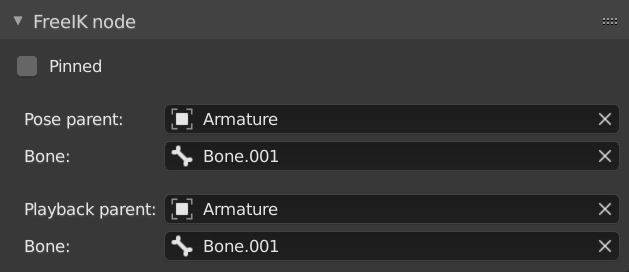
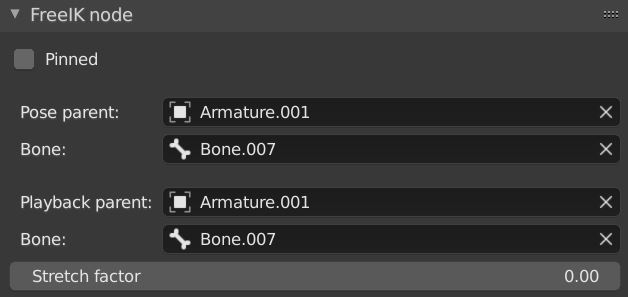
v 1.1

diff --git a/index.html b/index.html
@@ -167,19 +167,21 @@
 </div>
 <div class="section" id="install">
 <h1>Install<a class="headerlink" href="#install" title="Permalink to this headline">¶</a></h1>
-<p>Install like any other Blender addon.
-After installing you can set a shortcut for the FREEIK pie menu in the addon preferences.</p>
+<p>Install FREEIK like any other Blender addon.</p>
+<p>After installing you can set a shortcuts from the addon preferences.</p>
 <p><img alt="preferences" src="_images/preferences.jpg" /></p>
-<p>Here is the pie menu itself.</p>
-<p><img alt="pie_menu" src="_images/pie_menu.jpg" /></p>
-<p>It contains most functions of this addon.</p>
+<p>Then install this <a class="reference external" href="https://github.com/xbodya13/compact_keyframe_insert_menu">addon</a></p>
+<p>It provides a special keying set ,called <strong>Transform</strong> that is needed to animate with FREEIK</p>
 </div>
 <div class="section" id="rig-a-model">
 <h1>Rig a model<a class="headerlink" href="#rig-a-model" title="Permalink to this headline">¶</a></h1>
-<p>To rig a model select its armature, start the pie menu and hit <strong>Make links</strong> button.</p>
+<p>Here is the pie menu.</p>
+<p><img alt="pie_menu" src="_images/pie_menu.jpg" /></p>
+<p>It contains most functions of this addon.</p>
+<p>To rig a model select its armature and hit <strong>Make links</strong> button.</p>
 <p>This operator connects all bones with ball-socket constraints, basing on their hierarchy.</p>
 <p><img alt="make_links" src="_images/make_links.jpg" /></p>
-<p>If your armature has animation, check <strong>Adapt animation</strong> in its settings.
+<p>If your armature already has animation, check <strong>Adapt animation</strong> in its settings.
 This checkbox creates a new action and bakes original animation into it</p>
 <div class="admonition warning">
 <p class="first admonition-title">Warning</p>
@@ -203,6 +205,24 @@ Also, you can pin and unpin any bone using corresponding buttons from the pie me
 <p class="first admonition-title">Warning</p>
 <p class="last">Not uniform scale of armature object may lead to strange behavior</p>
 </div>
+<p>There are three posing modes:</p>
+<ul>
+<li><p class="first">Smooth</p>
+<p><a class="reference internal" href="_images/smooth.gif"><img alt="smooth" src="_images/smooth.gif" style="width: 60%;" /></a></p>
+</li>
+<li><p class="first">Rope</p>
+<p><a class="reference internal" href="_images/rope.gif"><img alt="rope" src="_images/rope.gif" style="width: 60%;" /></a></p>
+</li>
+<li><p class="first">Stretch</p>
+<p><a class="reference internal" href="_images/stretch.gif"><img alt="stretch" src="_images/stretch.gif" style="width: 60%;" /></a></p>
+<p>This mode can be used to achieve stretch and squash effect by adjusting the <strong>Stretch factor</strong> property that can be found in bone settings</p>
+<p><a class="reference internal" href="_images/stretch_highlight.jpg"><img alt="stretch_highlight" src="_images/stretch_highlight.jpg" style="width: 80%;" /></a></p>
+<p>See how stretch factor affects bone behavior</p>
+<p><a class="reference internal" href="_images/stretch_factor.gif"><img alt="stretch_factor" src="_images/stretch_factor.gif" style="width: 80%;" /></a></p>
+</li>
+</ul>
+<p>You can switch between posing modes using pie menu
+<img alt="change_mode" src="_images/change_mode.jpg" /></p>
 </div>
 <div class="section" id="parenting">
 <h1>Parenting<a class="headerlink" href="#parenting" title="Permalink to this headline">¶</a></h1>
@@ -221,16 +241,23 @@ Pose parent is used only when posing and doesn’t affect the animation.</p>
 </div>
 <div class="section" id="animation">
 <h1>Animation<a class="headerlink" href="#animation" title="Permalink to this headline">¶</a></h1>
-<p>Unlike generic bones, bones rigged with FREEIK may have an extra rotation channel that should be keyed.</p>
+<p>The animation workflow is pretty similar to usual armatures:</p>
+<p>Pose model-&gt; Key transformation of the bones-&gt;Go to another frame-&gt;Repeat</p>
+<div class="admonition tip">
+<p class="first admonition-title">Tip</p>
+<p class="last">For nice interpolation it is better to key transformation on all bones of the character</p>
+</div>
+<p>But unlike the generic bones, bones rigged with FREEIK may have an extra rotation channel that should be keyed.</p>
 <p><img alt="transform" src="_images/transform.jpg" /></p>
-<p>To do this, i recommend to install this <a class="reference external" href="https://github.com/xbodya13/compact_keyframe_insert_menu">addon</a></p>
-<p>When you install it,you’ll find out two extra properties in <strong>Transform</strong> keying set settings.</p>
+<p>That’s why you need a special keying set called <strong>Transform</strong>,which is provided with this <a class="reference external" href="https://github.com/xbodya13/compact_keyframe_insert_menu">addon</a></p>
+<p>Here are its settings</p>
 <p><img alt="keyset" src="_images/keyset.jpg" /></p>
 <p><strong>Local</strong> - insert keyframes on local rotation of selected bones</p>
 <p><strong>Linked</strong> - insert keyframes on all bones which are connected to selected ones</p>
 <p>Also, every bone has <strong>Pinned</strong> property. It can be found in bone settings.</p>
 <p><img alt="node_panel" src="_images/node_panel.jpg" /></p>
 <p>Pinned bones work similarly to IK targets in normal rigs.</p>
+<p><a class="reference internal" href="_images/pinning.gif"><img alt="pinning" src="_images/pinning.gif" style="width: 80%;" /></a></p>
 <p>To animate this property you can use these buttons from the pie menu</p>
 <p><img alt="pin" src="_images/pin.jpg" /></p>
 <p><strong>+</strong>- insert keyframe on <strong>Pinned</strong> property of selected bones</p>
@@ -239,10 +266,6 @@ Pose parent is used only when posing and doesn’t affect the animation.</p>
 <div class="admonition important">
 <p class="first admonition-title">Important</p>
 <p class="last">Always key transformation on all bones of the rig on frames where <strong>Pinned</strong> property changing</p>
-</div>
-<div class="admonition warning">
-<p class="first admonition-title">Warning</p>
-<p class="last">Automatic keyframe insertion doesn’t work properly yet (will be fixed in next releases)</p>
 </div>
 <p>See how all this works in this video:</p>
 <iframe width="560" height="315" src="https://www.youtube.com/embed/rY2MrpxW7WU" frameborder="0" allow="accelerometer; autoplay; encrypted-media; gyroscope; picture-in-picture" allowfullscreen></iframe></div>
@@ -273,7 +296,7 @@ To disable rig press red lamp from the same menu.</p>
 <div class="section" id="clear-rig">
 <h1>Clear rig<a class="headerlink" href="#clear-rig" title="Permalink to this headline">¶</a></h1>
 <p>To clear rig use <strong>Clear links</strong> button.
-This operator turns back FREEIK rig to the basic armature.</p>
+This operator turns FREEIK rig back to the basic armature.</p>
 <p>Here are its settings</p>
 <p><img alt="clear_links" src="_images/clear_links.jpg" /></p>
 <p><strong>Make hierarchy</strong> - if checked, bones will have parents

diff --git a/searchindex.js b/searchindex.js
@@ -1,1 +1,1 @@
-Search.setIndex({docnames:["index"],envversion:53,filenames:["index.rst"],objects:{},objnames:{},objtypes:{},terms:{"function":0,"new":0,"switch":0,For:0,Not:0,Then:0,Using:0,about:0,action:0,activ:0,adapt:0,addon:0,affect:0,after:0,all:0,also:0,alwai:0,ani:0,approxim:0,armatur:0,automat:0,back:0,bake:0,ball:0,base:0,basic:0,befor:0,behavior:0,better:0,between:0,blender:0,bone:0,button:0,can:0,chang:0,channel:0,charact:0,check:0,checkbox:0,choos:0,connect:0,constrain:0,constraint:0,contain:0,correct:0,correspond:0,count:0,creat:0,cursor:0,delet:0,differ:0,directli:0,disabl:0,doesn:0,done:0,each:0,edit:0,enabl:0,entir:0,everi:0,extra:0,find:0,fix:0,found:0,frame:0,from:0,gener:0,green:0,has:0,have:0,head:0,heavi:0,here:0,hide:0,hierarchi:0,hit:0,how:0,humanoid:0,indirectli:0,inherit:0,insert:0,interpol:0,iter:0,its:0,itself:0,kei:0,keyfram:0,lamp:0,lead:0,less:0,like:0,link:0,local:0,loop:0,mai:0,make:0,mani:0,menu:0,mode:0,most:0,move:0,need:0,next:0,normal:0,now:0,object:0,ones:0,onli:0,oper:0,origin:0,other:0,out:0,panel:0,part:0,perform:0,pie:0,pin:0,place:0,playback:0,prefer:0,press:0,properli:0,properti:0,quit:0,reason:0,recommend:0,red:0,releas:0,remov:0,renam:0,result:0,right:0,rotat:0,same:0,scale:0,scene:0,see:0,select:0,set:0,shortcut:0,should:0,show:0,significantli:0,similarli:0,singl:0,skeleton:0,socket:0,solver:0,start:0,strang:0,stuck:0,tail:0,target:0,thei:0,thi:0,time:0,transform:0,turn:0,two:0,uniform:0,unlik:0,unpin:0,use:0,used:0,using:0,video:0,wanna:0,want:0,when:0,where:0,which:0,wish:0,work:0,yet:0,you:0,your:0},titles:["Welcome to the FREEIK documentation!"],titleterms:{anim:0,clear:0,document:0,freeik:0,instal:0,model:0,optim:0,overlai:0,parent:0,pose:0,rig:0,split:0,welcom:0}})
+Search.setIndex({docnames:["index"],envversion:53,filenames:["index.rst"],objects:{},objnames:{},objtypes:{},terms:{"function":0,"new":0,"switch":0,But:0,For:0,Not:0,That:0,The:0,Then:0,There:0,Using:0,about:0,achiev:0,action:0,activ:0,adapt:0,addon:0,adjust:0,affect:0,after:0,all:0,alreadi:0,also:0,alwai:0,ani:0,anoth:0,approxim:0,armatur:0,automat:[],back:0,bake:0,ball:0,base:0,basic:0,befor:0,behavior:0,better:0,between:0,blender:0,bone:0,button:0,call:0,can:0,chang:0,channel:0,charact:0,check:0,checkbox:0,choos:0,connect:0,constrain:0,constraint:0,contain:0,correct:0,correspond:0,count:0,creat:0,cursor:0,delet:0,differ:0,directli:0,disabl:0,doesn:0,done:0,each:0,edit:0,effect:0,enabl:0,entir:0,everi:0,extra:0,factor:0,find:[],fix:[],found:0,frame:0,from:0,gener:0,green:0,has:0,have:0,head:0,heavi:0,here:0,hide:0,hierarchi:0,hit:0,how:0,humanoid:0,indirectli:0,inherit:0,insert:0,interpol:0,iter:0,its:0,itself:[],kei:0,keyfram:0,lamp:0,lead:0,less:0,like:0,link:0,local:0,loop:0,mai:0,make:0,mani:0,menu:0,mode:0,most:0,move:0,need:0,next:[],nice:0,normal:0,now:0,object:0,ones:0,onli:0,oper:0,origin:0,other:0,out:[],panel:0,part:0,perform:0,pie:0,pin:0,place:0,playback:0,prefer:0,press:0,pretti:0,properli:[],properti:0,provid:0,quit:0,reason:0,recommend:[],red:0,releas:[],remov:0,renam:0,repeat:0,result:0,right:0,rope:0,rotat:0,same:0,scale:0,scene:0,see:0,select:0,set:0,shortcut:0,should:0,show:0,significantli:0,similar:0,similarli:0,singl:0,skeleton:0,smooth:0,socket:0,solver:0,special:0,squash:0,start:[],strang:0,stretch:0,stuck:0,tail:0,target:0,thei:0,them:[],thi:0,three:0,time:0,transform:0,turn:0,two:0,uniform:0,unlik:0,unpin:0,use:0,used:0,using:0,usual:0,video:0,wanna:0,want:0,when:0,where:0,which:0,why:0,wish:0,work:0,workflow:0,yet:[],you:0,your:0},titles:["Welcome to the FREEIK documentation!"],titleterms:{anim:0,clear:0,document:0,freeik:0,instal:0,model:0,optim:0,overlai:0,parent:0,pose:0,rig:0,split:0,welcom:0}})
